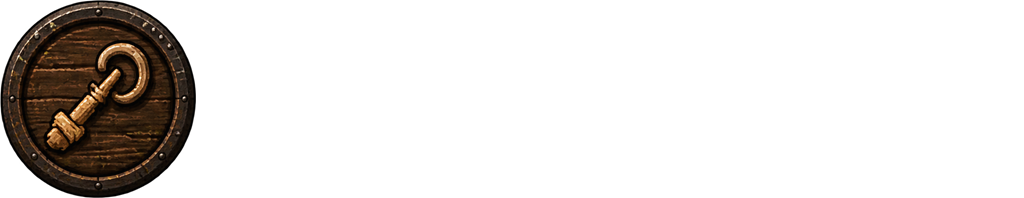
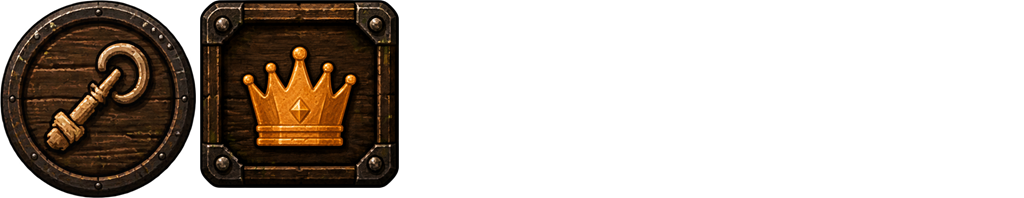
Move the HUD to the screen edges and swap Christmas for Premium
The 5% TV-safe margin now applies only on consoles. Roblox calls most
PC monitors "Large", so the HUD sat about 110 px in from every edge;
it still grows on big screens as before.

The HUD's Christmas button is now a Premium button (a crown, edited in
SpriteCook from the Stats button) that opens the shop's Premium tab. The
Christmas Bundle stays on sale through its items in the shop. The crown
is packed into the boosts atlas, re-uploaded with the new id, and all
four atlases now have their uploaded ids.

Changed region(s): [[0.1875, 0.0, 0.4062, 0.9697]]

diff --git a/README.md b/README.md
@@ -26,7 +26,7 @@ A Roblox horror obby. Cross a drowned forest at night by jumping from stump to s
 - **The cave:** every party starts in a cave behind the ridge, with room to walk about and a supply stall (G) for last-minute shopping. It is gloomy but never too dark, lit by torches, lanterns and glowing crystals, with water dripping and wind blowing in through its wide mouth onto the forest. A few seconds after you arrive, something out there steps on a stick, growls two seconds later, and a note says it is your last chance to grab supplies (with a button to the shop). Practice runs skip that.
 - **Run timer:** starts when you walk out of the cave's mouth and stops at the exit. A run counts for the easiest difficulty played during it. Your best time on each difficulty is saved.
 - **Coins:** earned for each stage cleared, each shell found and each escape. Spend them in the **Shop** (the dock's shop button, the + on your coins, B, or D-pad left on a controller).
-- **The HUD:** your stage top left, coins bottom left (top left on touch screens, clear of the thumbstick), the run timer top middle, difficulty top right. In the lobby and the cave, big **Shop** and **Bag** buttons (what you own, to wear or take off) sit on the left, and on the right the **Christmas** button (with a LIMITED ribbon and how long is left), **2x Coins** (the Passes tab) and **Join** (Roblox's prompt to join the game's community, with a one-time coin reward; it goes away once paid), then **Stats** (escapes, fastest escape, stages cleared, times caught, shells found, runs started, time played), **Settings** (music, night sounds, sound effects, camera shake, field of view) and **Invite** (Roblox's invite-friends prompt). Out in the forest they make way for the noise meter on the left and round pebble, Updraft, Hush and Grapple buttons bottom right, which work on touch screens too (Grapple also shows near a hook: with a + to buy one there and then, or with no count at all at a free hook on the way through). On touch screens Shop and Bag sit side by side, the right-hand buttons make two rows near the top and the round buttons sit left of the jump button; on small screens (phones, small windows) the whole HUD and the party banner shrink to fit.
+- **The HUD:** your stage top left, coins bottom left (top left on touch screens, clear of the thumbstick), the run timer top middle, difficulty top right. In the lobby and the cave, big **Shop** and **Bag** buttons (what you own, to wear or take off) sit on the left, and on the right **Premium** (the shop's Premium tab, the Robux skins), **2x Coins** (the Passes tab) and **Join** (Roblox's prompt to join the game's community, with a one-time coin reward; it goes away once paid), then **Stats** (escapes, fastest escape, stages cleared, times caught, shells found, runs started, time played), **Settings** (music, night sounds, sound effects, camera shake, field of view) and **Invite** (Roblox's invite-friends prompt). Out in the forest they make way for the noise meter on the left and round pebble, Updraft, Hush and Grapple buttons bottom right, which work on touch screens too (Grapple also shows near a hook: with a + to buy one there and then, or with no count at all at a free hook on the way through). On touch screens Shop and Bag sit side by side, the right-hand buttons make two rows near the top and the round buttons sit left of the jump button; on small screens (phones, small windows) the whole HUD and the party banner shrink to fit.
 - **The Christmas Bundle** (until New Year, UTC): a limited Robux bundle with the exclusive **Frostbite** skin (ice) and **Santa Hat**, 1,000 coins and 3 Self-Revives. Its window has a countdown and its own SpriteCook art. The skin and hat aren't sold for coins: in the shop they point to the bundle, and once it's over they only show to those who have them.
 - **Premium skins:** a **Premium** tab in the shop with five skins sold for Robux, a Game Pass each, so they're yours for good: **Swamp Survivor** (R$399: beanie, pack straps and a glowing lantern, held up as you go), **Bog Hunter** (R$499: moss ghillie hood with yellow eyes, crouched stalking walk), **Willow Wraith** (R$599: long wet black hair and glowing eyes, floats above the ground in green mist and wisps), **Rotwood Sentinel** (R$499: antlered skull with amber eyes, bark and moss shoulders, embers and fireflies, roars now and then) and **Cursed Diver** (R$599: brass diving helmet with a green glow, rusted air tank, bubbles rising). Each recolours your avatar, hides your hats and hair, and puts on its 3D piece (made in Meshy) and its pieces built from parts. Its move plays on every screen and is only a look: it changes nothing about how you move or how loud you are. Buying one puts it on at once; you wear it or take it off like any other skin, from the shop or your bag.
 - **Robux shop:** two more tabs in the shop. **Robux**: coin packs (Handful, Jar, Chest, Sunken Hoard), the Night Kit bundle (coins, Updrafts, Hushes and 2 Self-Revives), Self-Revives (1 or 3, kept until you need them) and 5-packs of Updraft and Hush. **Passes**: **2× Coins** (double coins from stages, shells and escapes) and **Deep Pockets** (5 pebbles a life and up to 15 of each boost). The + on your coins opens the Robux tab. What each one gives is in `src/shared/RobuxCatalog.luau`.
@@ -93,14 +93,14 @@ Everything in the game can be played with only a controller, on PC or on a PlayS
 | Grapple, near a hook | X / Square | G |
 | Shop counter, supply stall, snow pile | X / Square at the prompt | G |
 | Shop / Bag | D-pad left / D-pad right | B / (mouse) |
-| The HUD's other buttons: Stats, Settings, Invite, Christmas, 2x Coins, Join, difficulty, coins +, the party banner's Leave | D-pad up, then move with the stick or D-pad and press A / Cross | mouse |
+| The HUD's other buttons: Stats, Settings, Invite, Premium, 2x Coins, Join, difficulty, coins +, the party banner's Leave | D-pad up, then move with the stick or D-pad and press A / Cross | mouse |
 | In a menu: move, press, back | stick or D-pad, A / Cross, B / Circle | mouse |
 | Shop tabs | LB / RB (L1 / R1) | mouse |
 | Leave a party | step off the pad, or its banner's Leave | the same |
 
 - **Every menu opens with a button already selected** and keeps the selection inside it: the shop on its tab, Settings on Music, Stats on Close, the party pop-up on Create party, the Christmas window on its Robux button, the escape window on Play again, the death screen on Revive (B does nothing there: it has to be answered, or you bleed out on your own). The cave's last-chance note starts on I'm ready, so a jump pressed as it pops up doesn't open the shop. B closes a menu and goes back to where you were (from Settings back to the HUD's Settings button, from there back to the game).
 - **Button hints are Roblox's own icons** (`UserInputService:GetImageForKeyCode`), so a PlayStation pad shows Cross, Square, Triangle, L1 and R2 and an Xbox pad A, X, Y, LB and RT. They show only while you use a controller; on a keyboard the letters come back. The boosts' shop cards show their button instead of "Press Q".
-- **On a TV** (`GuiService:IsTenFootInterface()`, or a large display), the HUD and every window grow with the screen, up to 1.5 times their size on a 1080p screen, and stay inside the TV-safe area, 5% in from each edge (`Candy.TV_SCALE`, `Candy.TV_SAFE`).
+- **On a big screen** (a console's TV, `GuiService:IsTenFootInterface()`, or a large PC monitor), the HUD and every window grow with the screen, up to 1.5 times their size on a 1080p screen (`Candy.TV_SCALE`). Only on a console's TV do they stay inside the TV-safe area, 5% in from each edge (`Candy.TV_SAFE`); on a monitor the HUD goes right to the edges.
 - **On a console the chat window and chat bar are off**, as Roblox's console guidelines ask.
 - **Nothing in the game links outside Roblox.** Join opens Roblox's own community prompt and Invite Roblox's invite prompt (only where the platform allows invites). The social links on the game's page are Roblox's to show or hide per platform.
 - The code is `src/client/Gamepad.luau` (which input you use, the hints, menu selection and B); each window tells it when it opens and closes.
